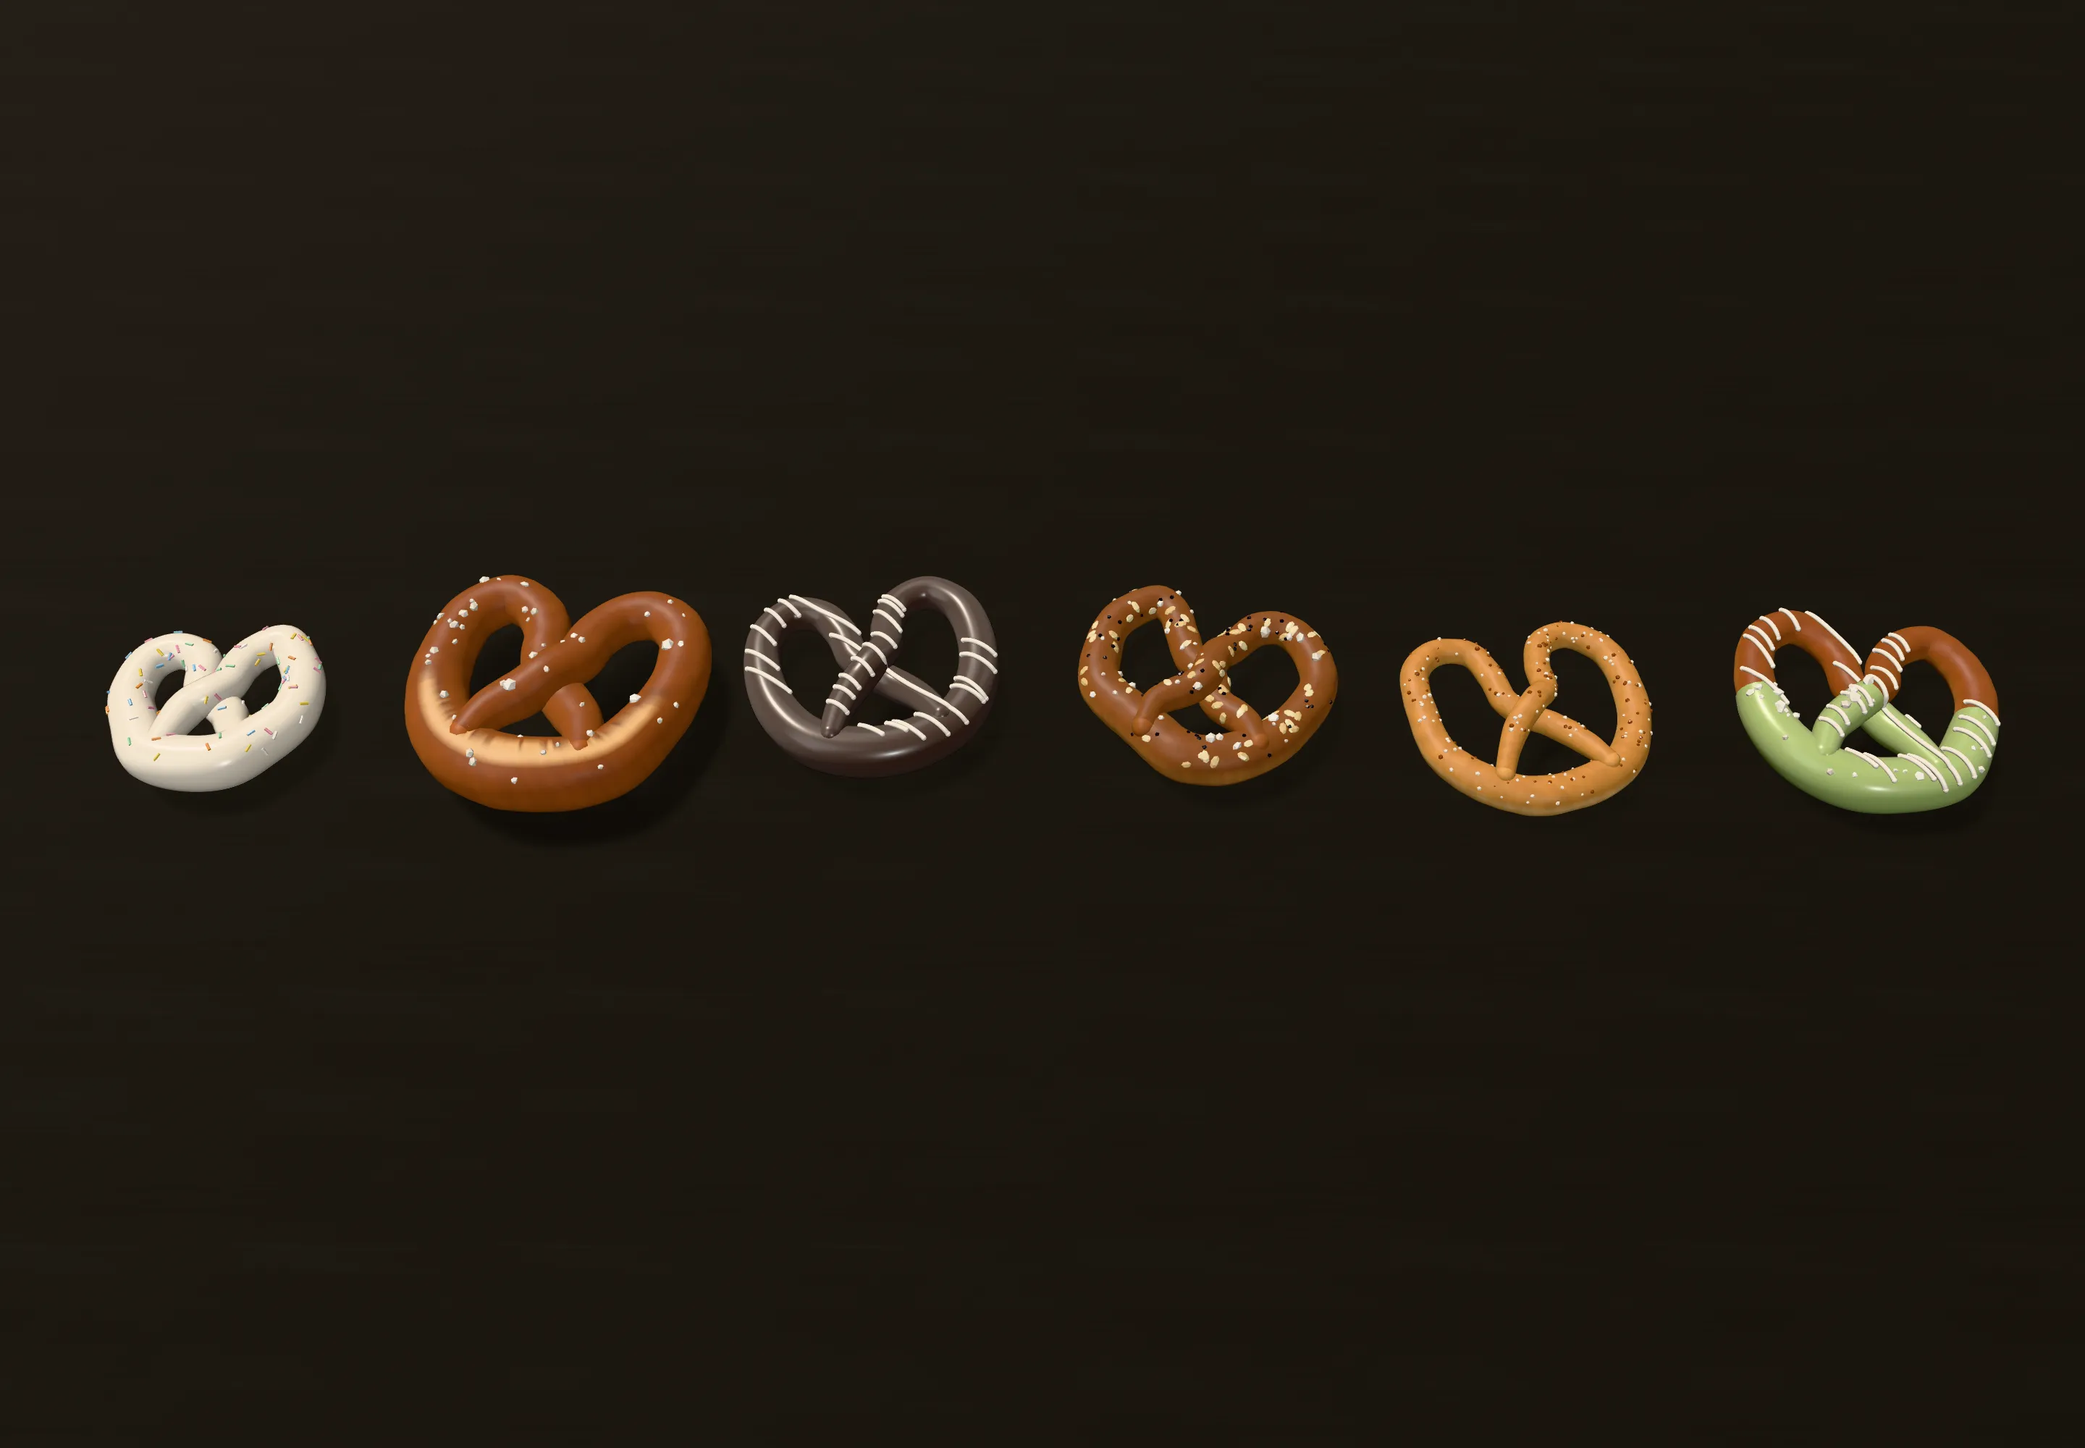
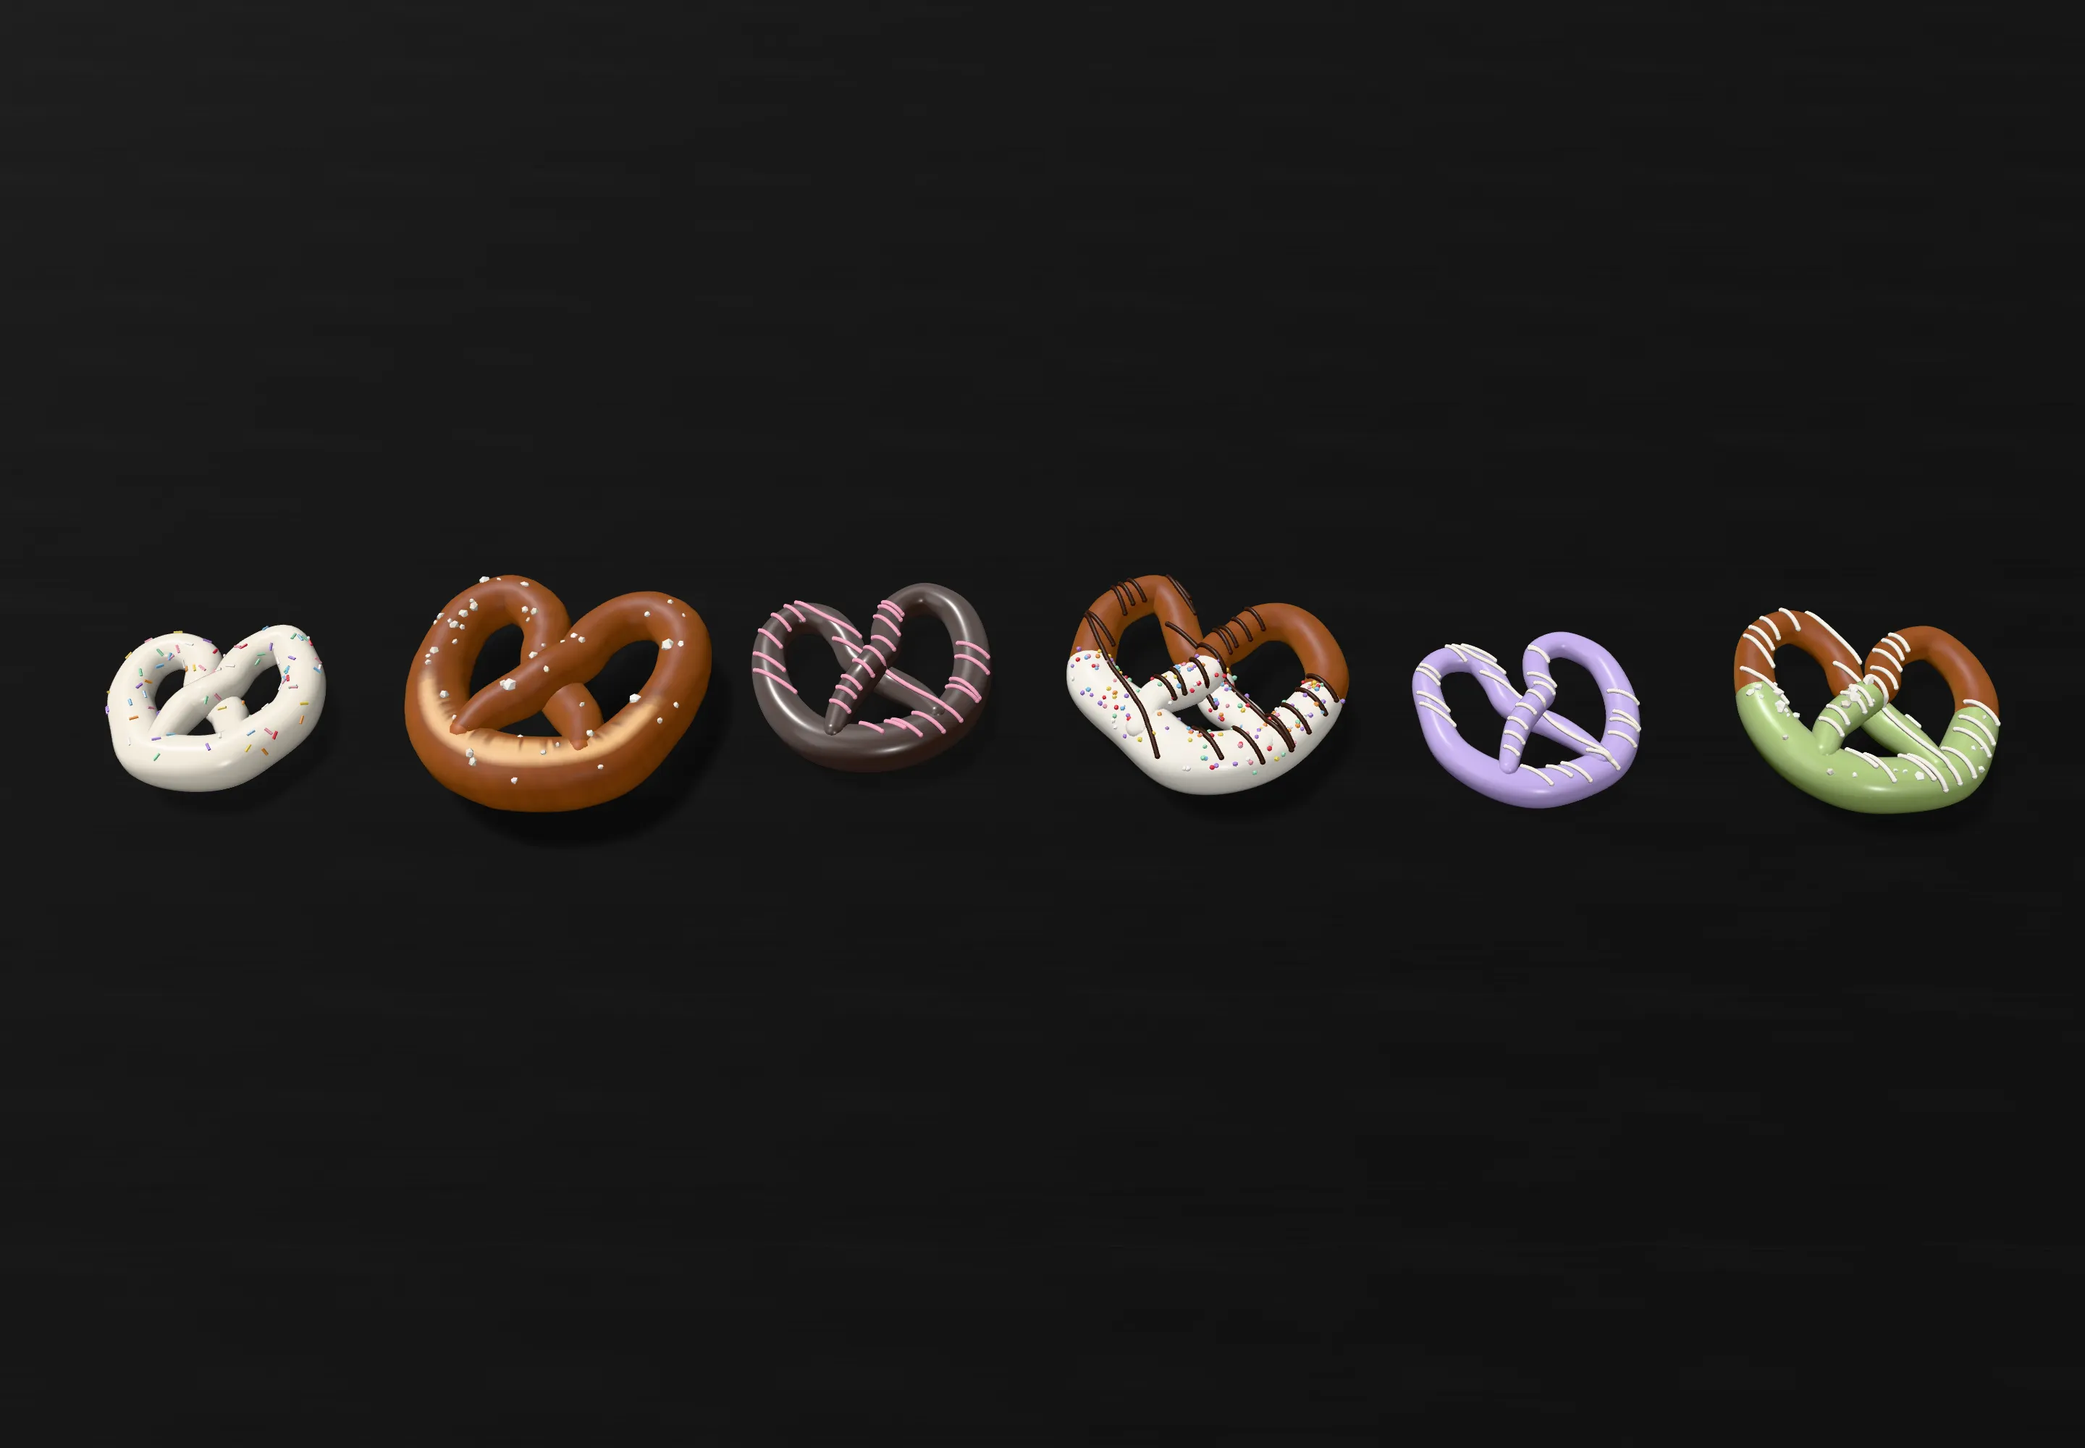
Make the pretzels fun and the secret one pink
The stray pretzel that leads to /facts is now a pink glazed pretzel with
rainbow sprinkles, rendered by the logo renderer (KIND=secret). On the table,
the startup chapter is a big wonky funfetti pretzel with rainbow nonpareils,
the now chapter a small lilac ube one, and the chocolate one gets a pink
drizzle. The light is neutral white instead of warm, and coated pretzels skip
the dough swells so a thin rope can't poke through its coating. Posters
re-captured.

Changed region(s): [[0.3438, 0.372, 0.8125, 0.589], [0.125, 0.434, 0.1562, 0.465]]

diff --git a/app/book/pretzel-geometry.ts b/app/book/pretzel-geometry.ts
@@ -18,10 +18,10 @@ import { mergeGeometries, mergeVertices } from "three/examples/jsm/utils/BufferG
 // about .86 units across, bottom at x = -.11. Each chapter of the story gets
 // its own kind: a coating, a topping and a slightly different twist.
 
-export type PretzelKind = "salt" | "sprinkles" | "chocolate" | "everything" | "cinnamon" | "matcha" | "filler" | "logo";
+export type PretzelKind = "salt" | "sprinkles" | "chocolate" | "funfetti" | "ube" | "matcha" | "filler" | "logo" | "secret";
 
-type Topping = "salt" | "sprinkles" | "everything" | "cinnamon" | "none";
-type Bake = "pale" | "golden" | "toasty" | "lye";
+type Topping = "salt" | "sprinkles" | "nonpareils" | "none";
+type Bake = "golden" | "lye";
 type Recipe = {
   topping: Topping;
   coat?: string;
@@ -43,12 +43,13 @@ const RECIPES: Record<PretzelKind, Recipe> = {
   sprinkles: { topping: "sprinkles", coat: "#f4ecdc", dip: "full", rope: 1.3, size: .82, wonk: 1.6, salt: 1.7 },
   // The textbook one: a big soft pretzel, golden, scored belly, coarse salt.
   salt: { topping: "salt", bake: "golden", rope: 1.28, size: 1.16, wonk: .5, score: true, salt: 1.6 },
-  // Made a million times over: fully enrobed, perfectly even, a neat drizzle.
-  chocolate: { topping: "none", coat: "#3a2015", dip: "full", drizzle: "#f3efe6", rope: .92, size: 1, wonk: 0 },
-  // Rough, everything seasoning all over, twisted in a hurry.
-  everything: { topping: "everything", bake: "toasty", rope: 1.05, size: 1.02, wonk: 3 },
-  // Thin and crunchy, pale, crusted in cinnamon sugar.
-  cinnamon: { topping: "cinnamon", bake: "pale", rope: .78, size: .96, wonk: 1, salt: 1.4 },
+  // Made a million times over: fully enrobed, perfectly even, a neat pink drizzle.
+  chocolate: { topping: "none", coat: "#3a2015", dip: "full", drizzle: "#f4a7c3", rope: .92, size: .94, wonk: 0 },
+  // A bit of everything, twisted in a hurry: big and wonky, half dipped in white
+  // chocolate, a chocolate drizzle, rainbow nonpareils.
+  funfetti: { topping: "nonpareils", coat: "#f6f1e7", dip: "half", drizzle: "#3a2015", rope: 1.12, size: 1.1, wonk: 3, salt: 1.2 },
+  // Small and thin, fully dipped in lilac ube, a white drizzle.
+  ube: { topping: "none", coat: "#b9a2e0", dip: "full", drizzle: "#f6f1e7", rope: .8, size: .86, wonk: 1 },
   // Half dipped in matcha white chocolate, flaky salt, a white drizzle.
   matcha: { topping: "salt", coat: "#9bb46a", dip: "half", drizzle: "#f6f1e7", rope: 1, size: 1, wonk: .8 },
   // The bowl's plain filling: small, thin, crunchy, so the chapters stand out.
@@ -56,6 +57,9 @@ const RECIPES: Record<PretzelKind, Recipe> = {
   // The site's mark (rendered by app/logo-render): a real soft pretzel, lye-baked
   // dark with a pale split belly and coarse salt.
   logo: { topping: "salt", bake: "lye", rope: 1.3, size: 1, wonk: .9, lift: 1.4, score: true, salt: 1.8 },
+  // The stray pretzel that leads to the secret facts page: strawberry glaze,
+  // covered in rainbow sprinkles.
+  secret: { topping: "sprinkles", coat: "#ff9cc4", dip: "full", rope: 1.3, size: 1, wonk: .9, lift: 1.4, salt: 3.2 },
 };
 
 const rand = (seed: number) => {
@@ -88,12 +92,10 @@ const RADIUS = .1;
 const COAT_DEPTH = 1.08;
 // [top crust, body, split] per bake.
 const BAKES: Record<Bake, [Color, Color, Color]> = {
-  pale: [new Color("#a8642a"), new Color("#d39a55"), new Color("#f2d6a2")],
   golden: [new Color("#5e2408"), new Color("#9c4c18"), new Color("#ebbb7c")],
-  toasty: [new Color("#5a2a10"), new Color("#8f4f22"), new Color("#d8a46a")],
   lye: [new Color("#2e1104"), new Color("#8a4618"), new Color("#ecc996")],
 };
-const SPRINKLES = ["#f4a7c3", "#8fc9f0", "#f7dd6b", "#9ad8b4", "#ffffff", "#f6a35c"].map(c => new Color(c));
+const SPRINKLES = ["#f4a7c3", "#8fc9f0", "#f7dd6b", "#9ad8b4", "#ffffff", "#f6a35c", "#e8505b", "#b48be0"].map(c => new Color(c));
 
 function colourise(geometry: BufferGeometry, colour: Color) {
   const count = geometry.getAttribute("position").count;
@@ -186,7 +188,8 @@ export function createPretzelGeometry(lowDetail: boolean, kind: PretzelKind = "s
   const lift = -.11 - dough.boundingBox!.min.x;
   for (const g of layers) g.translate(lift, 0, 0);
   for (const g of [tube, ...caps]) g.dispose();
-  const baked = bakeDough(dough);
+  // Under a coating the swells would poke through a thin rope, and nobody sees them.
+  const baked = bakeDough(dough, recipe.coat ? 0 : 1);
   dough.dispose();
   return { dough: baked, toppings, coat, drizzle };
 }
@@ -208,7 +211,7 @@ const key = (p: Vector3) => `${p.x.toFixed(4)},${p.y.toFixed(4)},${p.z.toFixed(4
 // The oven's last touch, on the fitted dough: weld the tube's seam so the
 // swells don't crack it open, then swell it and brown it in patches. The bake
 // colours differ across the seam, so they're set aside by position and restored.
-function bakeDough(raw: BufferGeometry) {
+function bakeDough(raw: BufferGeometry, swell: number) {
   const rawPosition = raw.getAttribute("position"), rawColor = raw.getAttribute("color");
   const colours = new Map<string, [number, number, number]>();
   const p = new Vector3(), n = new Vector3();
@@ -230,7 +233,7 @@ function bakeDough(raw: BufferGeometry) {
     const [r, g, b] = colours.get(key(p)) ?? [.56, .31, .13];
     const shade = 1 + mottle(p) * .1;
     colour.set([r * shade, g * shade, b * shade], i * 3);
-    p.addScaledVector(n, lump(p) * .0035);
+    p.addScaledVector(n, lump(p) * .0035 * swell);
     position.setXYZ(i, p.x, p.y, p.z);
   }
   dough.setAttribute("color", new Float32BufferAttribute(colour, 3));
@@ -341,7 +344,7 @@ function drizzleGeometry(curve: CatmullRomCurve3, coated: (p: Vector3) => boolea
 // Toppings sit on the upper half of the rope. Dipped pretzels only carry them
 // on the coating, where they would stick in a real kitchen.
 function toppingGeometry(recipe: Recipe, curve: CatmullRomCurve3, coated: (p: Vector3) => boolean, seed: number, lowDetail: boolean, rope: number) {
-  const counts: Record<Topping, number> = { salt: 30, sprinkles: 46, everything: 170, cinnamon: 150, none: 0 };
+  const counts: Record<Topping, number> = { salt: 30, sprinkles: 46, nonpareils: 170, none: 0 };
   const count = Math.round(counts[recipe.topping] * (recipe.salt ?? 1) * (lowDetail ? .6 : 1));
   const pieces: BufferGeometry[] = [];
   const centre = new Vector3(), tangent = new Vector3(), side = new Vector3(), up = new Vector3(1, 0, 0);
@@ -361,23 +364,13 @@ function toppingGeometry(recipe: Recipe, curve: CatmullRomCurve3, coated: (p: Ve
 
     let piece: BufferGeometry;
     let colour: Color;
-    const kind = recipe.topping === "everything" ? (r(6) < .45 ? "sesame" : r(6) < .85 ? "poppy" : "salt") : recipe.topping;
+    const kind = recipe.topping;
     if (kind === "salt") {
       // Coarse pretzel salt: lots of small chips, a few bigger, not quite white.
       const size = .012 + r(7) ** 2 * .018;
       piece = new IcosahedronGeometry(1, 0);
       m.compose(p, q, new Vector3(size, size * (.6 + r(8) * .5), size * (.8 + r(9) * .4)));
       colour = new Color("#fbfaf6").lerp(new Color("#ddd6c8"), r(10));
-    } else if (kind === "sesame") {
-      piece = new SphereGeometry(1, 6, 4).toNonIndexed();
-      // Seeds lie flat on the surface, turned any way round.
-      along.setFromUnitVectors(new Vector3(0, 0, 1), dir).multiply(new Quaternion().setFromAxisAngle(new Vector3(0, 0, 1), r(7) * 6));
-      m.compose(p, along, new Vector3(.03, .018, .008));
-      colour = new Color(r(8) < .5 ? "#eadcb4" : "#d9c08a");
-    } else if (kind === "poppy") {
-      piece = new SphereGeometry(1, 5, 3).toNonIndexed();
-      m.compose(p, q, new Vector3(.011, .011, .011));
-      colour = new Color("#1f1d24");
     } else if (kind === "sprinkles") {
       piece = new CylinderGeometry(1, 1, 1, 6).toNonIndexed();
       // Lying on the coating: the stick's axis is perpendicular to the surface normal.
@@ -386,10 +379,11 @@ function toppingGeometry(recipe: Recipe, curve: CatmullRomCurve3, coated: (p: Ve
       m.compose(p.addScaledVector(dir, .004), along, new Vector3(.008, .045, .008));
       colour = SPRINKLES[Math.floor(r(8) * SPRINKLES.length)];
     } else {
-      const size = .006 + r(7) * .006;
-      piece = new IcosahedronGeometry(1, 0);
-      m.compose(p, q, new Vector3(size, size, size));
-      colour = new Color(r(8) < .55 ? "#f6efe2" : "#8a4b22");
+      // Nonpareils: tiny round balls, every colour.
+      const size = .009 + r(7) * .003;
+      piece = new SphereGeometry(1, 6, 4).toNonIndexed();
+      m.compose(p.addScaledVector(dir, size * .4), q, new Vector3(size, size, size));
+      colour = SPRINKLES[Math.floor(r(8) * SPRINKLES.length)];
     }
     piece.applyMatrix4(m);
     if (piece.hasAttribute("uv")) piece.deleteAttribute("uv");

diff --git a/app/logo-render/logo-render.tsx b/app/logo-render/logo-render.tsx
@@ -4,29 +4,33 @@ import { Environment, Lightformer } from "@react-three/drei";
 import { Canvas } from "@react-three/fiber";
 import { useMemo } from "react";
 import { MeshPhysicalMaterial, NeutralToneMapping } from "three";
-import { createPretzelGeometry } from "../book/pretzel-geometry";
+import { createPretzelGeometry, pretzelFinish, type PretzelKind } from "../book/pretzel-geometry";
 
 // The pretzel mark: the same rope as the 3D chapters, baked like a real soft
-// pretzel: a glossy lye-dark crust, a pale split belly, coarse salt.
+// pretzel: a glossy lye-dark crust, a pale split belly, coarse salt. Also
+// renders the secret page's pink sprinkled pretzel (?kind=secret).
 // Transparent background, square.
-function Mark() {
-  const { dough, toppings } = useMemo(() => createPretzelGeometry(false, "logo"), []);
+function Mark({ kind }: { kind: PretzelKind }) {
+  const { dough, toppings, coat } = useMemo(() => createPretzelGeometry(false, kind), [kind]);
   const materials = useMemo(() => ({
+    // A glaze: a soft shine, like the dips on the pretzel table.
+    coat: new MeshPhysicalMaterial({ color: pretzelFinish(kind).coat, roughness: .38, clearcoat: .7, clearcoatRoughness: .22, sheen: .4, sheenColor: "#ffffff" }),
     // The lye bath leaves a thin glossy skin over a slightly rough crust.
     crust: new MeshPhysicalMaterial({ vertexColors: true, roughness: .62, clearcoat: .35, clearcoatRoughness: .45 }),
     // Coarse salt: faceted, bright, a little glassy.
     salt: new MeshPhysicalMaterial({ vertexColors: true, roughness: .28, clearcoat: .4, flatShading: true }),
-  }), []);
+  }), [kind]);
   // Face the camera, lobes up, leaning back a touch so it reads as an object.
   return <group rotation={[-.32, 0, 0]}>
     <group rotation={[0, -Math.PI / 2, 0]}>
       <mesh geometry={dough} material={materials.crust} />
       <mesh geometry={toppings} material={materials.salt} />
+      {coat && <mesh geometry={coat} material={materials.coat} />}
     </group>
   </group>;
 }
 
-export default function LogoRender() {
+export default function LogoRender({ kind }: { kind: PretzelKind }) {
   return <div style={{ width: 1024, height: 1024, background: "transparent" }}>
     <Canvas
       id="logo"
@@ -36,16 +40,16 @@ export default function LogoRender() {
       gl={{ alpha: true, antialias: true, preserveDrawingBuffer: true }}
       onCreated={({ gl }) => { gl.setClearColor(0x000000, 0); gl.toneMapping = NeutralToneMapping; }}
     >
-      {/* A warm bakery window up and to the left, a gentle fill. */}
+      {/* A bakery window up and to the left (warm for the baked mark only), a gentle fill. */}
       <ambientLight intensity={.12} />
-      <directionalLight position={[-2.5, 3.5, 3]} intensity={3} color="#fff4e6" />
+      <directionalLight position={[-2.5, 3.5, 3]} intensity={3} color={kind === "logo" ? "#fff4e6" : "#ffffff"} />
       <directionalLight position={[3, -1.5, 2]} intensity={.35} />
       <Environment resolution={256} frames={1}>
         <color attach="background" args={["#3a3a3a"]} />
         <Lightformer form="rect" intensity={1.1} position={[-2, 3, 4]} scale={[5, 4, 1]} target={[0, 0, 0]} />
         <Lightformer form="rect" intensity={.35} position={[3, 0, 3]} scale={[4, 6, 1]} target={[0, 0, 0]} />
       </Environment>
-      <Mark />
+      <Mark kind={kind} />
     </Canvas>
   </div>;
 }

diff --git a/app/page.tsx b/app/page.tsx
@@ -61,8 +61,8 @@ export default function Home() {
               <p>Now at Vizcom, building AI tools for industrial designers. Before that I started a few things: Taiyaki, an AI concept-to-CAD tool; Taya, a wearable AI journal as jewelry; and Mobius, materials trading and recycling. Earlier, product design engineering at Apple, and product design and mechanical engineering at Stanford.</p>
               <p>Mostly interested in AI for CAD, engineering, and making physical things.</p>
               <LinkList label="Contact Amy" links={contactLinks} />
-              {/* A second pretzel, left lying here, leads to the secret facts page. */}
-              <Link href="/facts" className="secret-pretzel" aria-label="Cool facts" title="psst"><Image src="/pretzel.png" alt="" width={192} height={192} unoptimized /></Link>
+              {/* A second pretzel, pink and sprinkled, left lying here: it leads to the secret facts page. */}
+              <Link href="/facts" className="secret-pretzel" aria-label="Cool facts" title="psst"><Image src="/pretzel-secret.png" alt="" width={192} height={192} unoptimized /></Link>
             </div>
           </div>
         </section>

diff --git a/app/logo-render/page.tsx b/app/logo-render/page.tsx
@@ -2,8 +2,9 @@ import { notFound } from "next/navigation";
 import LogoRender from "./logo-render";
 
 // Development only: renders the pretzel mark for scripts/render-logo.mjs to
-// photograph. Never part of the built site.
-export default function Page() {
+// photograph. Never part of the built site. ?kind=secret renders the stray pretzel.
+export default async function Page({ searchParams }: { searchParams: Promise<{ kind?: string }> }) {
   if (process.env.NODE_ENV === "production") notFound();
-  return <LogoRender />;
+  const { kind } = await searchParams;
+  return <LogoRender kind={kind === "secret" ? "secret" : "logo"} />;
 }

diff --git a/app/book/chapters.ts b/app/book/chapters.ts
@@ -31,13 +31,13 @@ export const bookChapters: BookChapter[] = [
   },
   {
     id: "building",
-    pretzel: "everything",
+    pretzel: "funfetti",
     title: "building end to end",
     text: "then i wanted to build things end to end: a materials recycling startup, an ai concept-to-cad tool, and a wearable ai journal disguised as jewelry.",
   },
   {
     id: "now",
-    pretzel: "cinnamon",
+    pretzel: "ube",
     title: "now",
     text: "now i'm at vizcom in san francisco, building ai tools for industrial designers. off hours i'm still making maps, terminals, crochet animals and pretzel-shaped objects.",
   },

diff --git a/app/book/pretzel-story.tsx b/app/book/pretzel-story.tsx
@@ -369,12 +369,11 @@ function PretzelScene({ selected, onSelect }: {
     <ResponsiveCamera />
     <color attach="background" args={["#000000"]} />
     <ambientLight intensity={0.18} />
-    {/* Warm, like the light in a bakery window. */}
-    <hemisphereLight args={["#fff4e6", "#2a2a2a", 0.55]} />
+    <hemisphereLight args={["#ffffff", "#2a2a2a", 0.55]} />
     <directionalLight
       position={[-3, 6, -3]}
       intensity={2.8}
-      color="#fff0dc"
+      color="#ffffff"
       castShadow
       shadow-mapSize-width={lowDetail ? 512 : 2048}
       shadow-mapSize-height={lowDetail ? 512 : 2048}
